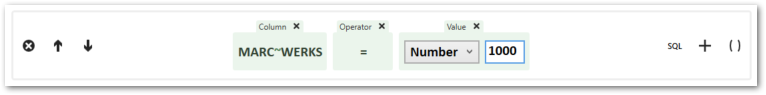
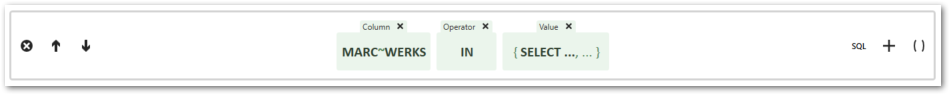
small changes

diff --git a/_includes/_content/en/tables/where-clause.md b/_includes/_content/en/tables/where-clause.md
@@ -1,9 +1,10 @@
 
 ### Using WHERE Clause 
-1. Select and double-click an extraction of type "table" in the main window of the Designer.
-The window "Define data source for SAP Table " opens.
-2. Navigate to tab **WHERE Clause**.
-3. Enter the WHERE clause manually or use the editor.
+
+1. Select and double-click an extraction of type "Table" in the main window of the Designer.
+The window "Table" opens.
+2. Navigate to tab *WHERE Clause*.
+3. Enter a WHERE clause manually or use the editor.
 4. To display the results in the **Preview** section, click **[Load live preview]**.
 
 {: .box-note }
@@ -135,7 +136,8 @@ The following components can be added to the WHERE clause (2):
 ![WHERE-Clause-Builder-Select-Column](/img/content/where-clause-builder-select-column.png){:class="img-responsive"}
 - **Add SQL** adds an SQL statement.
 - **Add Operator** adds an operator e.g., =, <, >, etc.
-- **Add literal Value** adds a static value of type *String*, *Number*, *Flag* or *Set*. *Set* also offers the option of adding a SELECT statement.<br>
+- **Add literal Value** adds a static value of type *String*, *Number*, *Flag* or *List*. *List* offers a separate editor to create lists of type *String* or *Number*. 
+*List* also offers the option of using a SELECT statement to create a list.<br>
 ![WHERE-Clause-Builder-Value](/img/content/where-clause-value.png){:class="img-responsive"}
 - **Add Parameter** adds a parameter defined in [**Edit Runtime Parameters**](#using-runtime-parameters-in-the-where-clause-builder).<br>
 ![WHERE-Clause-Builder-Example](/img/content/where-clause-param.png){:class="img-responsive"}

diff --git a/_includes/_content/de/table/where-bedingung.md b/_includes/_content/de/table/where-bedingung.md
@@ -41,7 +41,7 @@ Stellen Sie sicher, dass Sie die korrekte SAP OpenSQL-Syntax verwenden. Einige w
 **Tipp:** Um die Syntax der WHERE-Bedingung zu überprüfen, klicken Sie auf **[Load live preview]**. Auf diese Weise ist es nicht notwendig, eine Extraktion durchzuführen, um zu sehen, ob die Syntax korrekt ist.
 
 {: .box-tip}
-**Tipp:** Um die Leistung beim Extrahieren zu erhöhen, stellen Sie sicher, dass Sie die idizierten Felder als erste Auswahlfilteroperation in der WHERE-Bedingung platzieren.
+**Tipp:** Um die Leistung beim Extrahieren zu erhöhen, stellen Sie sicher, dass Sie die indizierten Felder als erste Auswahlfilteroperation in der WHERE-Bedingung platzieren.
 
 
 #### Syntaxregeln
@@ -100,7 +100,6 @@ Bei Verwendung von Table Joins können Felder der rechten Tabelle eines LEFT OUT
 Wenn Ihr SAP-System älter als Release 7.40, SP05 ist, erscheint folgender Fehler:
 *RFC_ERROR_SYSTEM_FAILURE - Illegal access to the right table of a LEFT OUTER JOIN*<br>
 (Unzulässiger Zugriff auf die rechte Tabelle eines LEFT OUTER JOIN)
-
 
 Weitere Informationen über die Änderungen in Release 7.40, SP05 erhalten Sie auf der [SAP Helpseite](https://help.sap.com/doc/abapdocu_750_index_htm/7.50/de-DE/abennews-740_sp05-open_sql.htm#!ABAP_MODIFICATION_5@5@).
 

diff --git a/_includes/_content/en/tables/having-clause.md b/_includes/_content/en/tables/having-clause.md
@@ -1,6 +1,7 @@
 
 ### Using HAVING-clause
-The usage of HAVING-clause is shown with the help of an example. The following example shows how many materials are assigned to a material type (MTART). After applying the HAVING-clause the preview shows only the material types with more than 10 materials assigned.
+The following example shows how many materials are assigned to a material type (MTART). 
+After applying the HAVING-clause the preview shows only the material types with more than 10 materials assigned.
 
 {: .box-note }
 **Note:** Aggregate functions are only supported for numeric field types, which is why the field BRGEW (Gross Weight) is used in the example.
